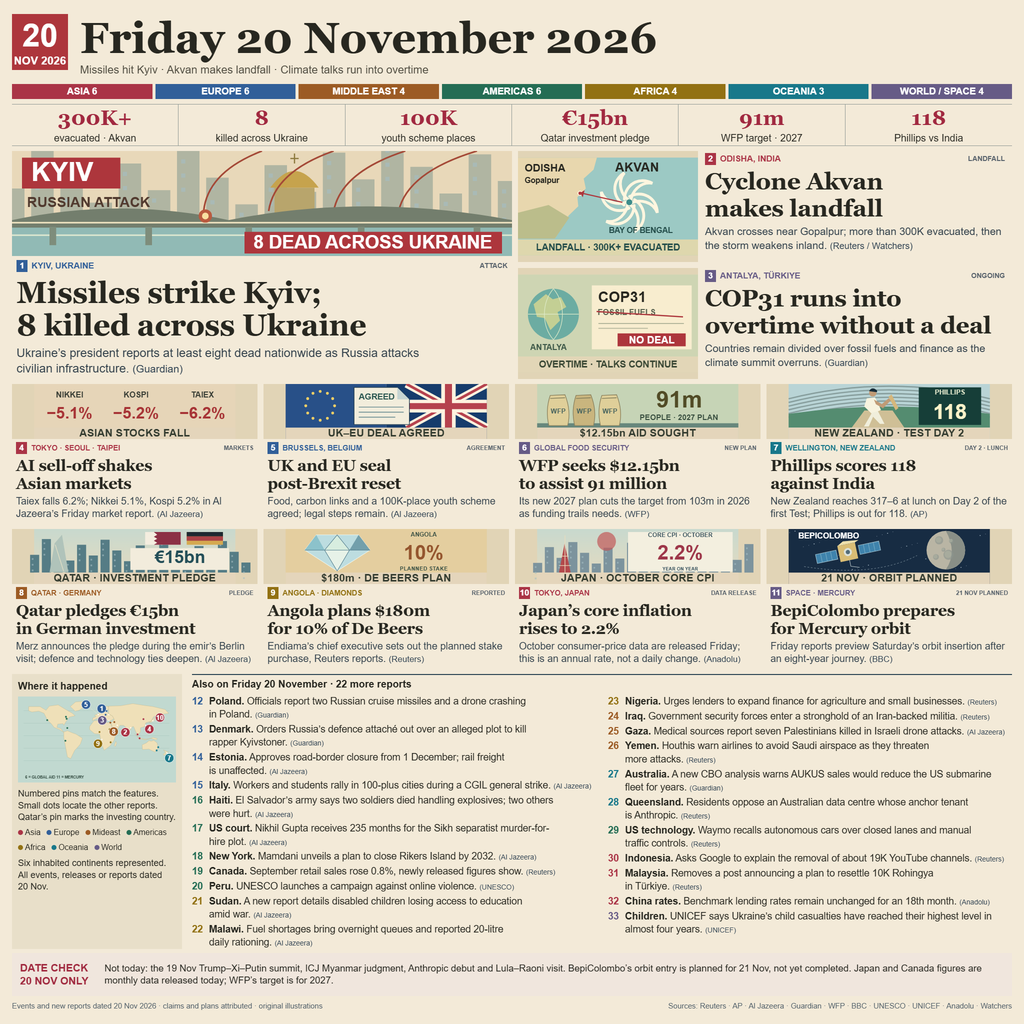
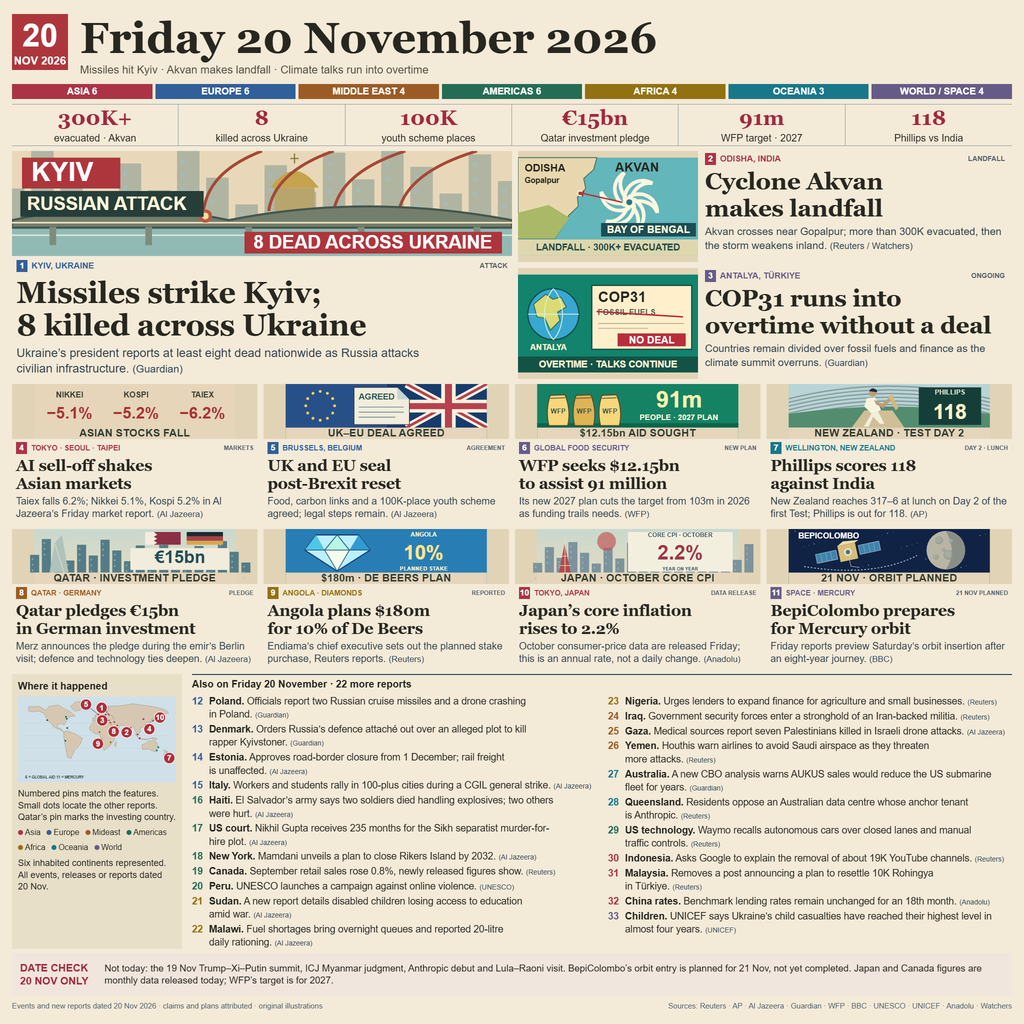
Enrich illustration colors and strengthen thumbnail labels

diff --git a/AUDIT.md b/AUDIT.md
@@ -192,3 +192,45 @@ The three lead illustrations are authored anew for the new proportions, retainin
 - Anti-slop:**PASS**,severity0,gating0,external stylesheets0. Template2advisories; rendered53advisories:row-kicker-eyebrow13,multiline-row-meta2,overstuffed-row38. Retained geographic/factual labels, full reporting and originalSVGobject structure after visual and bounds inspection. No deterministic fixes were required this cycle.
 
 The exact before/after images at1024px and300px are retained under`G:/kits/news-image-20261120-samples/round3-before-after-*`; Top1–3sheets and pass source snapshots use`round3-*`. Harness, pixel metric, two-model critiques andLinuxlogs are in ignored`.makefun-kit/round3-*`. The authentic-system-prompt transcript blocker from earlier checkpoints remains unresolved; no complete new bundle or official pre-submit check is claimed. This is a local design/runtime checkpoint.
+
+## Fourth cycle · richer color, larger illustration labels and map pins
+
+Current candidate supersedes earlier image sizes/hashes. Anchor is `f4c62da`. The user approved the composition and serif type and requested only artwork refinement. `render.html`, `stories.mjs` and `SOURCES.md` retain identical bytes to that anchor. All 33 reports, dates, numerical facts, source credits and geometry tracks are preserved.
+
+Current requirements and quota were checked before edits: standard transcript bundles, `can_submit: true`. Public Top 1–3 refreshed before implementation and at **2026-11-21T14:38:22.508Z**: dev/provisional **99.2057%, 99.1696%, 99.1652%**, with their previously recorded overlapping intervals. Source URLs, IDs, dimensions and dated prior-day references remain external. The candidate has no new official score; the submitted c0e008a score remains 98.2873% development/provisional.
+
+### Three measured artwork passes
+
+| Candidate | Change | PNG bytes | Geometry | Feedback against public #1 |
+| --- | --- | ---: | ---: | --- |
+| H0 | Exact f4c62da baseline | 823,806 | 0 | Previous cycle 88/78, no new baseline call |
+| H1 | Emerald COP31 and WFP; saturated blue Angola; stronger object strokes and midnight BepiColombo | 826,795 | 0 | Ministral 78/100 |
+| H2 | Kyiv/Akvan label growth and dark ribbons; heavier bridge, coast and spiral strokes | 832,020 | 0 | Ministral 78/100 |
+| H3 | Warm map land, pale blue sea, larger red pins; fuse validated artwork | 833,503 | 0 | Final exact PNG: Ministral 78/100, Gemini 88/100 |
+
+Earlier H3 feedback before small map-leader refinements was 88/68. Both records are retained; they are not interchangeable or official grades. Repeated feedback varies, and no decisive gain over #1 is established. The three passes fulfill the requested measurable artwork changes while keeping the approved layout invariant.
+
+| Requested property | Before | Current / measured result |
+| --- | --- | --- |
+| COP31 field | Pale sage #ced5b3 | Emerald #12836c |
+| WFP field | Pale green #c6d4b6 | Rich green #158264 |
+| Angola field | Pale ochre #e4ce9f | Saturated blue #287eb4 |
+| BepiColombo sky | #172c43 | Midnight #102344; orbit stroke 1.3→2.4 |
+| RUSSIAN ATTACK | 17 SVGpx | 22 SVGpx, +29.4%, dark green ribbon |
+| BAY OF BENGAL | 26 SVGpx | 34 SVGpx, +30.8%, dark teal ribbon |
+| Map land / sea | #efe0b8 / #c1d9d0 | **#D6C7B2 / #CFE0E8** |
+| Numbered pin radius / numeral | 18 / 26 SVGpx | **22 / 30 SVGpx**, red #ad303c |
+
+Mean HSV saturation, measured over the same full scene rectangles in the delivered PNG, rises **0.2066→0.5252 (2.54×)** for COP31, **0.1942→0.5319 (2.74×)** for WFP, and **0.2505→0.5008 (2.00×)** for Angola. This metric measures color intensity, not aesthetic quality or an official score. Typography, spacing and prose rendering are byte-for-byte governed by the same template.
+
+The pin audit includes stroke widths. At first the larger circles' outlines touched at two pairs; the offshore Kyiv and Odisha label offsets were moved 3 and 5 SVG units respectively, leaving their leader anchors fixed. The final minimum gap between numbered-pin outlines is **2.7113 SVG units**. All nine geographic feature pins have radius22 and red fill; the two nongeographic features retain the global-aid/Mercury key. Tiny report dots retain regional colors.
+
+### Current validity and evidence
+
[1 lines of base64/hex data omitted]
+- Two independent Chromium contexts produce identical master and delivery PNGs. Geometry findings **0**, covering 78 text blocks, 266 text runs, SVG label bounds/pairs, IDs and report sequence. Additional art audit checks exact layout hash, label growth of at least25%, pin styling, nonintersecting outlines and increased saturation for the three target scenes.
+- PNG CRC, full scanline inflation and terminal-chunk checks pass; two native executions and two fresh offline Linux Node22.23.4 containers reproduce the exact final hash. Limits:1CPU,512MB,64PIDs,read-only bot; local Docker-inclusive wall times737ms/491ms are not server timing.
+- Anti-slop **PASS**, severity0, gating0, external stylesheets0. Rendered advisory count53: row-kicker-eyebrow13, multiline-row-meta2, overstuffed-row38; these geographic labels/reporting/SVG compositions were retained after visual and geometry review. No deterministic fix required.
+- Inspected exact300px before/after sheet. Label and color improvements are visible; complete briefs still require the native image. Final two-model critiques remain below92; no official score or claimed win.
+
+Artifacts: `.makefun-kit/round4-*` (ignored) for harness, pass records, art metrics, critic logs and Linux evidence; `G:/kits/news-image-20261120-samples/round4-*` for baseline/pass source snapshots, native/300px sheets and before/after comparisons. The authentic-system-prompt transcript limitation remains unresolved; a complete new pre-submit bundle/check is not claimed. Candidate is local pending the later explicit submission boundary.

diff --git a/DESIGN.md b/DESIGN.md
@@ -16,18 +16,22 @@ Two supporting rows contain four stories each at280px row height. The lower sect
 | Primary ink | `#272720` |
 | Quiet paper panels | `#e8dfc9` |
 | Crimson event stamp | `#ad363c` |
-| Teal water / map | `#9cc9c4` / `#c1d9d0` |
-| Climate field | `#ced5b3` |
+| Cyclone water / map sea | `#63b6ba` / `#CFE0E8` |
+| Climate / aid fields | `#12836c` / `#158264` |
+| Diamond scene / night sky | `#287eb4` / `#102344` |
+| Map land / numbered pins | `#D6C7B2` / `#ad303c` |
 | Ochre illustration field | `#e8d7ae` |
 
 Georgia bold carries date and headlines; Arial carries data, location, summaries and source credits. Authored sizes: date86px; Kyiv headline60px; Akvan/COP3148px; supporting32px; digest19.5px at1.35 line height with3.5px inter-report gap. Delivered type is half those sizes. The Kyiv/support headline ratio is1.875; other lead/support ratio1.5. Digest body and source detail require the full image; no claim that complete prose is readable at300px.
 
 ## Artwork and surface
 
-Original vector scenes retain concrete geography and scientific objects. Kyiv uses a warm sky, sage skyline, turquoise river and restrained crimson toll stamp. Akvan uses a pale coast, teal sea, spiral and precise landfall marker. COP31 places the globe and negotiating paper on a light sage field. Supporting caption bars use warm paper with dark ink instead of repeated dark blue bars. Market figures remain reported index losses; no invented intraday path. Space retains a small dark field to distinguish Mercury and the spacecraft.
+Original vector scenes retain concrete geography and scientific objects. Kyiv uses a warm sky, sage skyline, turquoise river and restrained crimson toll stamp. Akvan uses a pale coast, saturated teal sea, spiral and precise landfall marker. COP31 places the bright blue globe and negotiating paper on emerald; WFP uses a rich green field with golden sacks, and Angola uses a blue field with cyan diamond facets. Supporting caption bars retain warm paper with dark ink. Market figures remain reported index losses; no invented intraday path. Space uses a midnight blue field and a heavier dashed orbit path to distinguish Mercury and the spacecraft.
+
+`RUSSIAN ATTACK` is22 SVGpx (previously17) on a dark green ribbon; `BAY OF BENGAL` is34 SVGpx (previously26) on a dark teal ribbon. Kyiv bridge/attack strokes and cyclone coast/spiral strokes are heavier. Map land is #D6C7B2 over #CFE0E8 sea; numbered pins are uniformly red,22 SVG-unit radius with30px white numerals. Their leader lines preserve exact geographic anchors. Small report dots retain regional colors.
 
 Flat surfaces, small source credits and thin divisional rules carry the print grammar. No rounded cards or decorative shadows. Illustrations are generated from authoredSVG; raster provenance is `art.mjs` + `render.html` + `stories.mjs`, rendered by `build.mjs` and downsampled withLanczos3. No competitor artwork is included.
 
 ## Verified finish and limits
 
-The current review has zero geometry findings; two browser contexts and two isolated Linux runtime executions reproduce the exactPNG. Measured dark pixels at a luminance threshold80/255 fell15.07%→4.78% versus8b7ee83. This measures the intended reduction in dark fields, not visual quality or an official score. Independent model critiques remain below the92point tool threshold; publication success is unverified. Details and evidence paths are inAUDIT.md.
+The current review has zero geometry findings; two browser contexts and two isolated Linux runtime executions reproduce the exactPNG. The preceding composition change reduced dark fields; the current refinement restores rich color in selected illustration blocks. Measured mean HSV saturation rises2.54×/2.74×/2.00× for COP31/WFP/Angola versus f4c62da. This measures color intensity, not visual quality or an official score. The layout template and all editorial data remain byte-identical. Independent model critiques remain below the92point tool threshold; publication success is unverified. Details and evidence paths are inAUDIT.md.

diff --git a/README.md b/README.md
@@ -43,7 +43,9 @@ At the 300 px preview, the date, main headline hierarchy and factual illustratio
 
 The current edition replaces the equal-column lead grid with one large Kyiv feature and two stacked horizontal lead stories for Akvan and COP31. A continuous warm-paper surface and newly composed light illustrations replace the repeated dark-blue panels. Lead headlines are 60px/48px at master resolution versus 32px supporting headlines; the wider lower digest uses 19.5px text at 1.35 line height with 3.5px between reports. [Design notes](DESIGN.md) describe the current layout and palette.
 
-All 33 reports and the source ledger remain byte-identical to the submitted baseline. The current PNG is 823,806 bytes. The builder validates geometry before replacing the deliverable.
+The illustration refinement adds emerald COP31/WFP fields, a brighter blue Angola scene, stronger edge strokes and dark ribbons behind enlarged Kyiv/Akvan labels. The map uses warm brown-cream land, pale blue sea and larger red numbered pins. The layout template retains its exact reviewed bytes.
+
+All 33 reports and the source ledger remain byte-identical to the submitted baseline. The current PNG is 833,503 bytes. The builder validates geometry before replacing the deliverable.
 
 Two independent browser contexts produce identical image bytes; two fresh offline Linux Node 22.23.4 containers reproduce that same PNG. The [audit](AUDIT.md) records the three measured passes and their limits. The candidate has no new official score: the submitted baseline's development rate is 98.2873%, while the sampled leader is 99.2057%. Local critics do not establish that the upgrade beats the leader.
 
